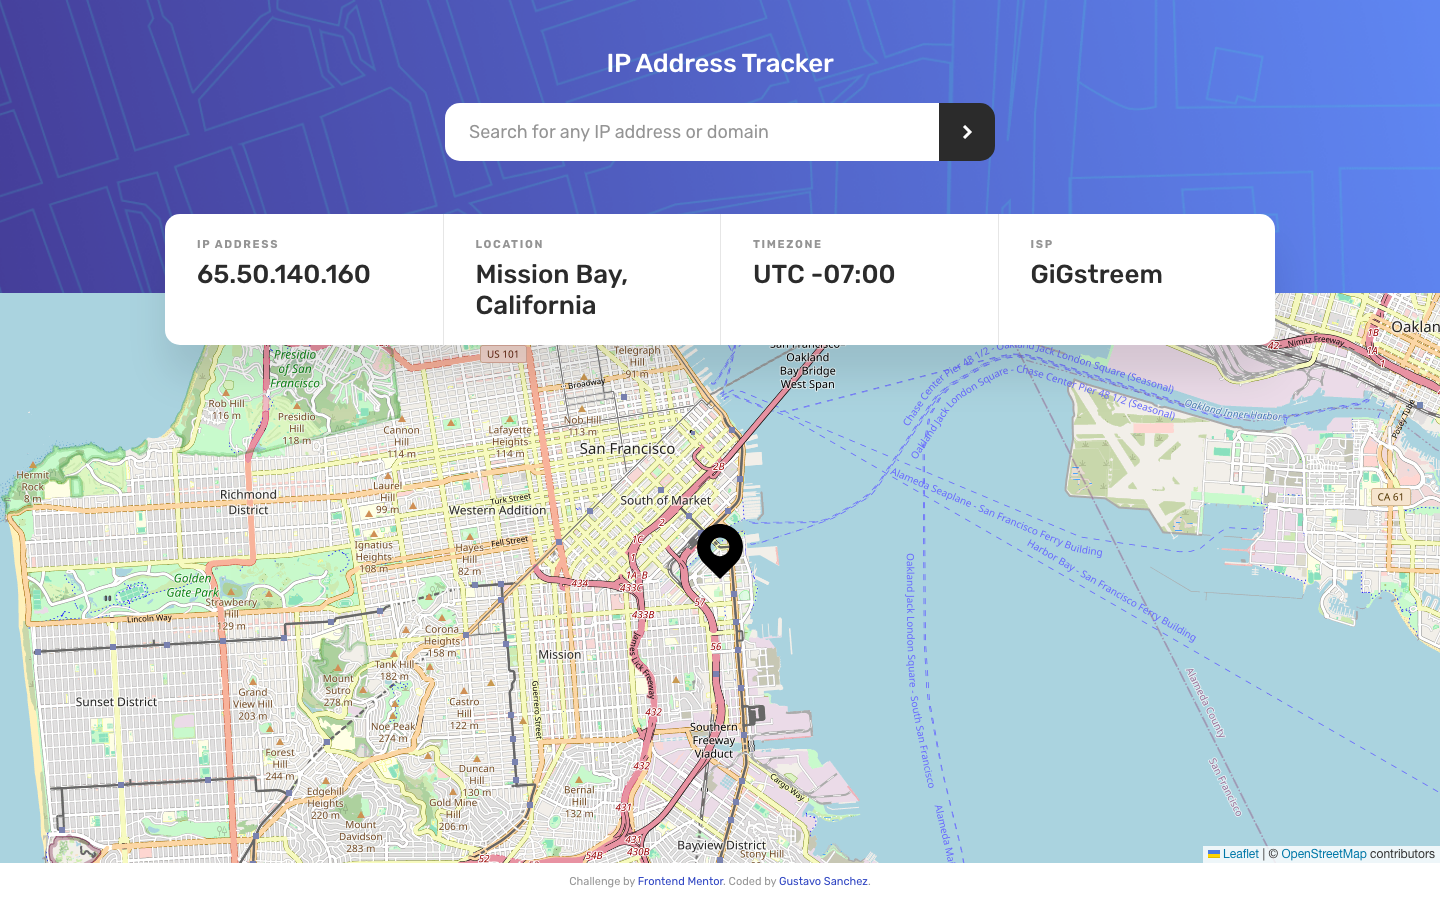
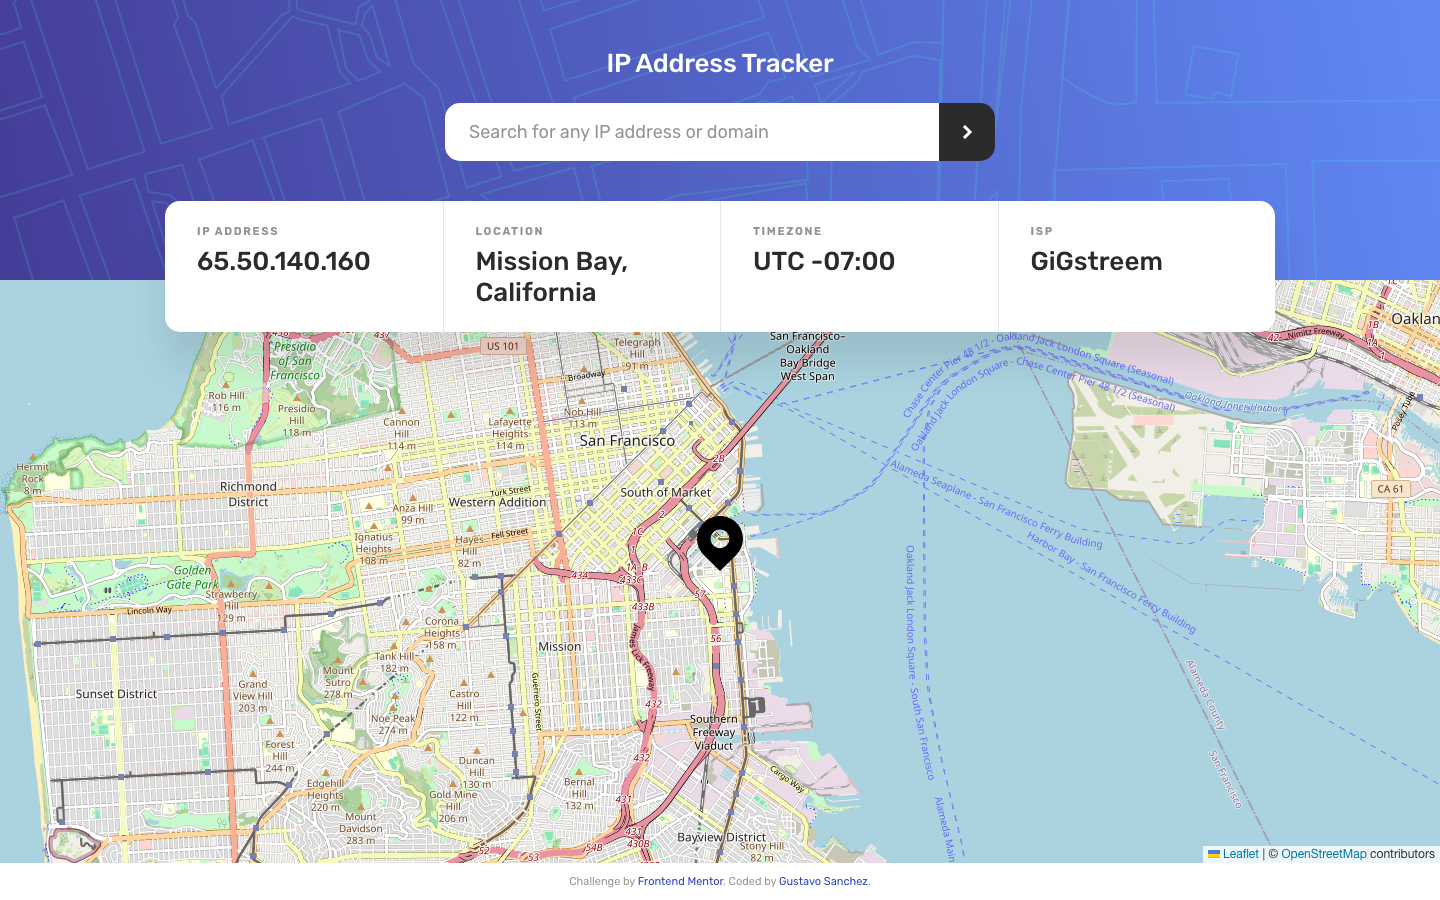
fix: move InfoCard out of Header to prevent it covering search form on mobile
InfoCard had z-index:1000 on its base class which caused it to render
over the search form when inside the header flex container on mobile.
Moved InfoCard into a .page-top wrapper in App so it sits after the
header in the DOM; desktop uses absolute positioning, mobile uses
margin-top overlap.

diff --git a/src/components/Header/Header.css b/src/components/Header/Header.css
@@ -10,7 +10,7 @@
   align-items: center;
   justify-content: flex-start;
   padding-top: var(--spacing-xl);
-  padding-bottom: calc(var(--card-overlap) + 5rem);
+  padding-bottom: var(--spacing-xl);
 }
 
 .site-header__content {
@@ -32,7 +32,7 @@
 /* Tablet */
 @media (max-width: 900px) and (min-width: 769px) {
   .site-header {
-    padding-bottom: calc(var(--card-overlap) + 3rem);
+    padding-bottom: var(--spacing-xl);
   }
 }
 
@@ -40,9 +40,9 @@
 @media (max-width: 768px) {
   .site-header {
     background-image: url('/images/pattern-bg-mobile.png');
-    min-height: var(--header-height-mobile);
+    min-height: auto;
     padding-top: var(--spacing-lg);
-    padding-bottom: calc(var(--card-overlap) + 1.5rem);
+    padding-bottom: var(--spacing-xl);
   }
 
   .site-header__title {

diff --git a/src/components/Header/Header.tsx b/src/components/Header/Header.tsx
@@ -1,22 +1,18 @@
 import { SearchForm } from '../SearchForm/SearchForm';
-import { InfoCard } from '../InfoCard/InfoCard';
-import type { IpData } from '../../types/ip';
 import './Header.css';
 
 interface HeaderProps {
   onSearch: (query: string) => void;
   loading: boolean;
-  ipData: IpData | null;
 }
 
-export function Header({ onSearch, loading, ipData }: HeaderProps) {
+export function Header({ onSearch, loading }: HeaderProps) {
   return (
     <header className="site-header">
       <div className="site-header__content">
         <h1 className="site-header__title">IP Address Tracker</h1>
         <SearchForm onSearch={onSearch} loading={loading} />
       </div>
-      <InfoCard data={ipData} loading={loading} />
     </header>
   );
 }

diff --git a/src/App.tsx b/src/App.tsx
@@ -1,5 +1,6 @@
 import { useState, useEffect } from 'react';
 import { Header } from './components/Header/Header';
+import { InfoCard } from './components/InfoCard/InfoCard';
 import { MapView } from './components/MapView/MapView';
 import { getIpData } from './services/ipify';
 import type { IpData } from './types/ip';
@@ -30,7 +31,10 @@ export default function App() {
 
   return (
     <>
-      <Header onSearch={fetchIpData} loading={loading} ipData={ipData} />
+      <div className="page-top">
+        <Header onSearch={fetchIpData} loading={loading} />
+        <InfoCard data={ipData} loading={loading} />
+      </div>
       {error && (
         <p className="app__error" role="alert">
           {error}

diff --git a/src/components/InfoCard/InfoCard.css b/src/components/InfoCard/InfoCard.css
@@ -48,9 +48,10 @@
     transform: none;
     bottom: auto;
     width: calc(100% - 3rem);
-    margin: 0 auto;
-    margin-top: -4.5rem;
+    margin: -2rem auto 0;
     grid-template-columns: 1fr;
+    text-align: center;
+    z-index: var(--z-card);
   }
 
   .info-card > .info-item:not(:first-child) {

diff --git a/src/App.css b/src/App.css
@@ -1,3 +1,8 @@
+/* Wraps header + info card so InfoCard can be absolutely positioned on desktop */
+.page-top {
+  position: relative;
+}
+
 .app__main {
   flex: 1;
   display: flex;
